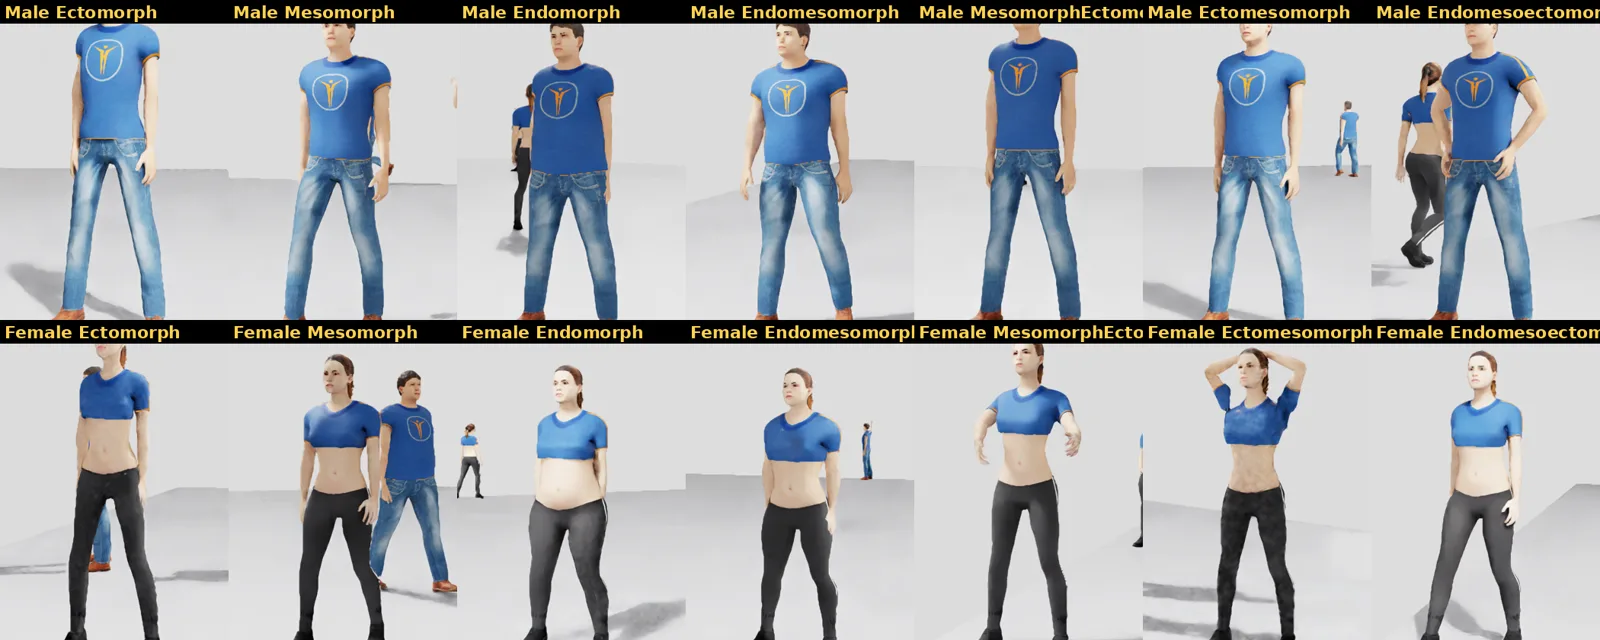
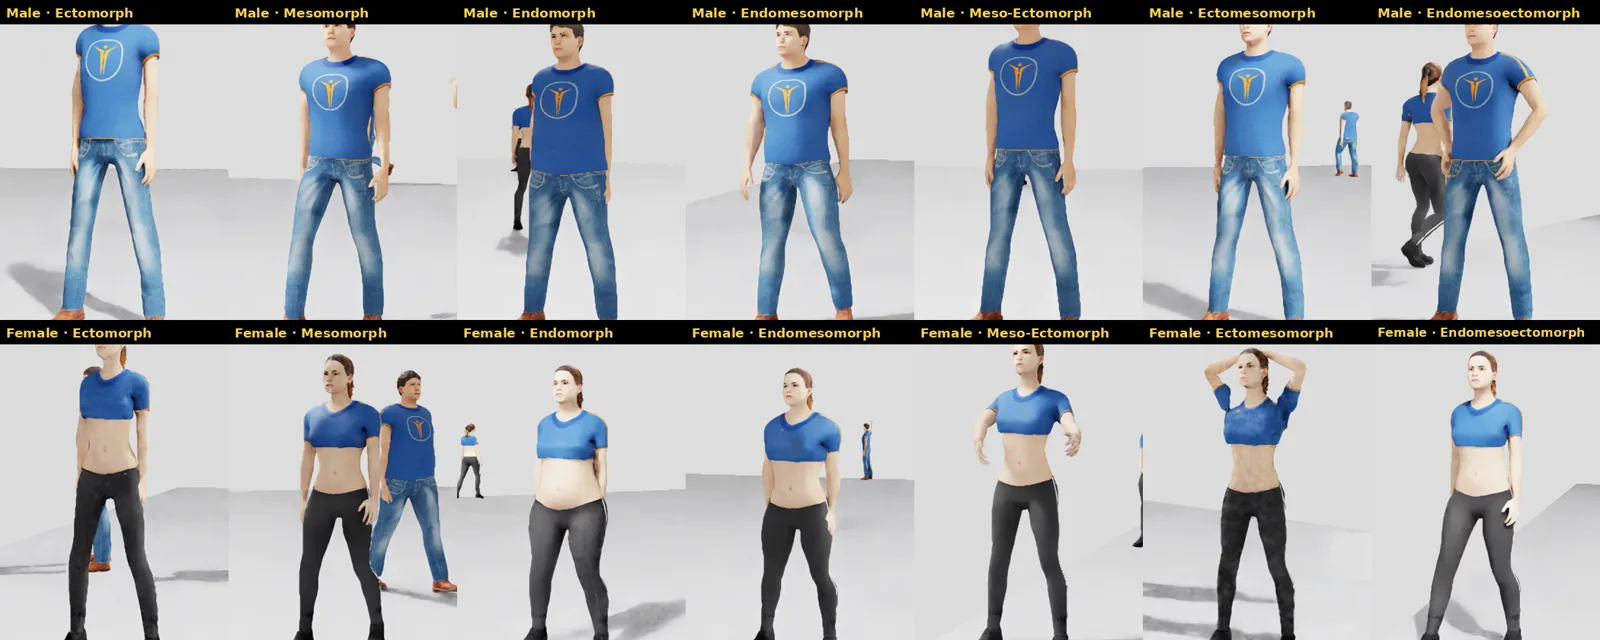
Fix synthetic human data post: title, images, precision
Shorten title (59 chars with site suffix) and description (147 chars).
Replace debug labels on the scenario strip and rebuild it as a 2x4 grid
readable on phones; redraw cut-off labels on the Isaac Sim body-types
image. Attribute the root-bone limit to Isaac Sim's character behavior
setup, note the shoulder offset came from tests, and fix two alt texts.

diff --git a/src/pages/isaac-sim-synthetic-human-data.md b/src/pages/isaac-sim-synthetic-human-data.md
@@ -1,7 +1,7 @@
 ---
 layout: ../layouts/BlogPostLayout.astro
-title: "Synthetic Human Data in NVIDIA Isaac Sim: From MakeHuman Characters to Validated Pose Datasets"
-description: "How RUNTIME Robotics builds diverse digital humans in Blender, converts them for Isaac Sim, animates them and generates labelled, validated pose datasets for robot perception."
+title: "Synthetic Human Data in NVIDIA Isaac Sim"
+description: "How we build diverse digital humans in Blender, convert them for Isaac Sim, animate them and generate validated pose datasets for robot perception."
 image: "images/revised/human-sdg-hero.jpg"
 date: "2026-11-07"
 ---
@@ -36,14 +36,14 @@ Getting a MakeHuman character to behave in Isaac Sim usually means a lot of manu
 
 - removes helper geometry and skin hidden under clothes
 - makes body-shape morphs permanent, so body, clothes, hair and skeleton line up
-- **moves the skeleton's root bone exactly to the origin.** Isaac Sim rejects skeletons whose root is more than 1 mm off, and MakeHuman leaves it a few millimetres away. It's a small detail that otherwise costs hours of debugging.
+- **moves the skeleton's root bone exactly to the origin.** Isaac Sim's character behavior setup rejects skeletons whose root is more than 1 mm off, and MakeHuman leaves it a few millimetres away. It's a small detail that otherwise costs hours of debugging.
 - uses a game-engine skeleton that NVIDIA's human motion library can drive directly
 - writes USD files in the folder layout Isaac Sim's people system expects, without stray lights or cameras
 - saves a metadata file with body measurements and surface landmarks for later ground truth
 
 The result: the same characters, walking and posing in Isaac Sim.
 
-![The same 14 body types rendered and animated in NVIDIA Isaac Sim](/images/revised/human-sdg-isaac-body-types.webp)
+![The same 14 body types rendered in NVIDIA Isaac Sim](/images/revised/human-sdg-isaac-body-types.webp)
 
 ## 3. Bringing them to life
 
@@ -57,7 +57,7 @@ For the dataset, each person walks into a 4 × 4 m room through a door. They sta
 
 The camera is a simulated **Intel RealSense D455** using the real sensor's lens parameters and resolution, so the images match what a deployed robot would see.
 
-![Scenario sequence: entering, walking, standing, steady standing, hands on head, exiting](/images/revised/human-sdg-scenario.webp)
+![Scenario sequence in eight steps: entering, walking in, standing, steady standing, raising hands, hands on head, lowering hands, exiting](/images/revised/human-sdg-scenario.webp)
 
 Each frame includes:
 
@@ -78,7 +78,7 @@ On a full run of 14 people and 140 frames:
 - **YOLO11-pose detected all 140 people**, with a mean keypoint similarity (OKS) of **0.945**
 - the full dataset took about **18 minutes on an RTX 4060 laptop**
 
-We also document what the data can't do yet: depth has no sensor noise, and the shoulder keypoints sit about 11 pixels from where YOLO places them, because the skeleton's shoulder joint is inside the body rather than on its surface.
+We also document what the data can't do yet: depth has no sensor noise, and in our tests the shoulder keypoints sat about 11 pixels from where YOLO places them, because the skeleton's shoulder joint is inside the body rather than on its surface.
 
 We built the pipeline with **Claude Code** as our AI coding partner, which let our engineers move quickly from idea to a tested, documented tool.
 
